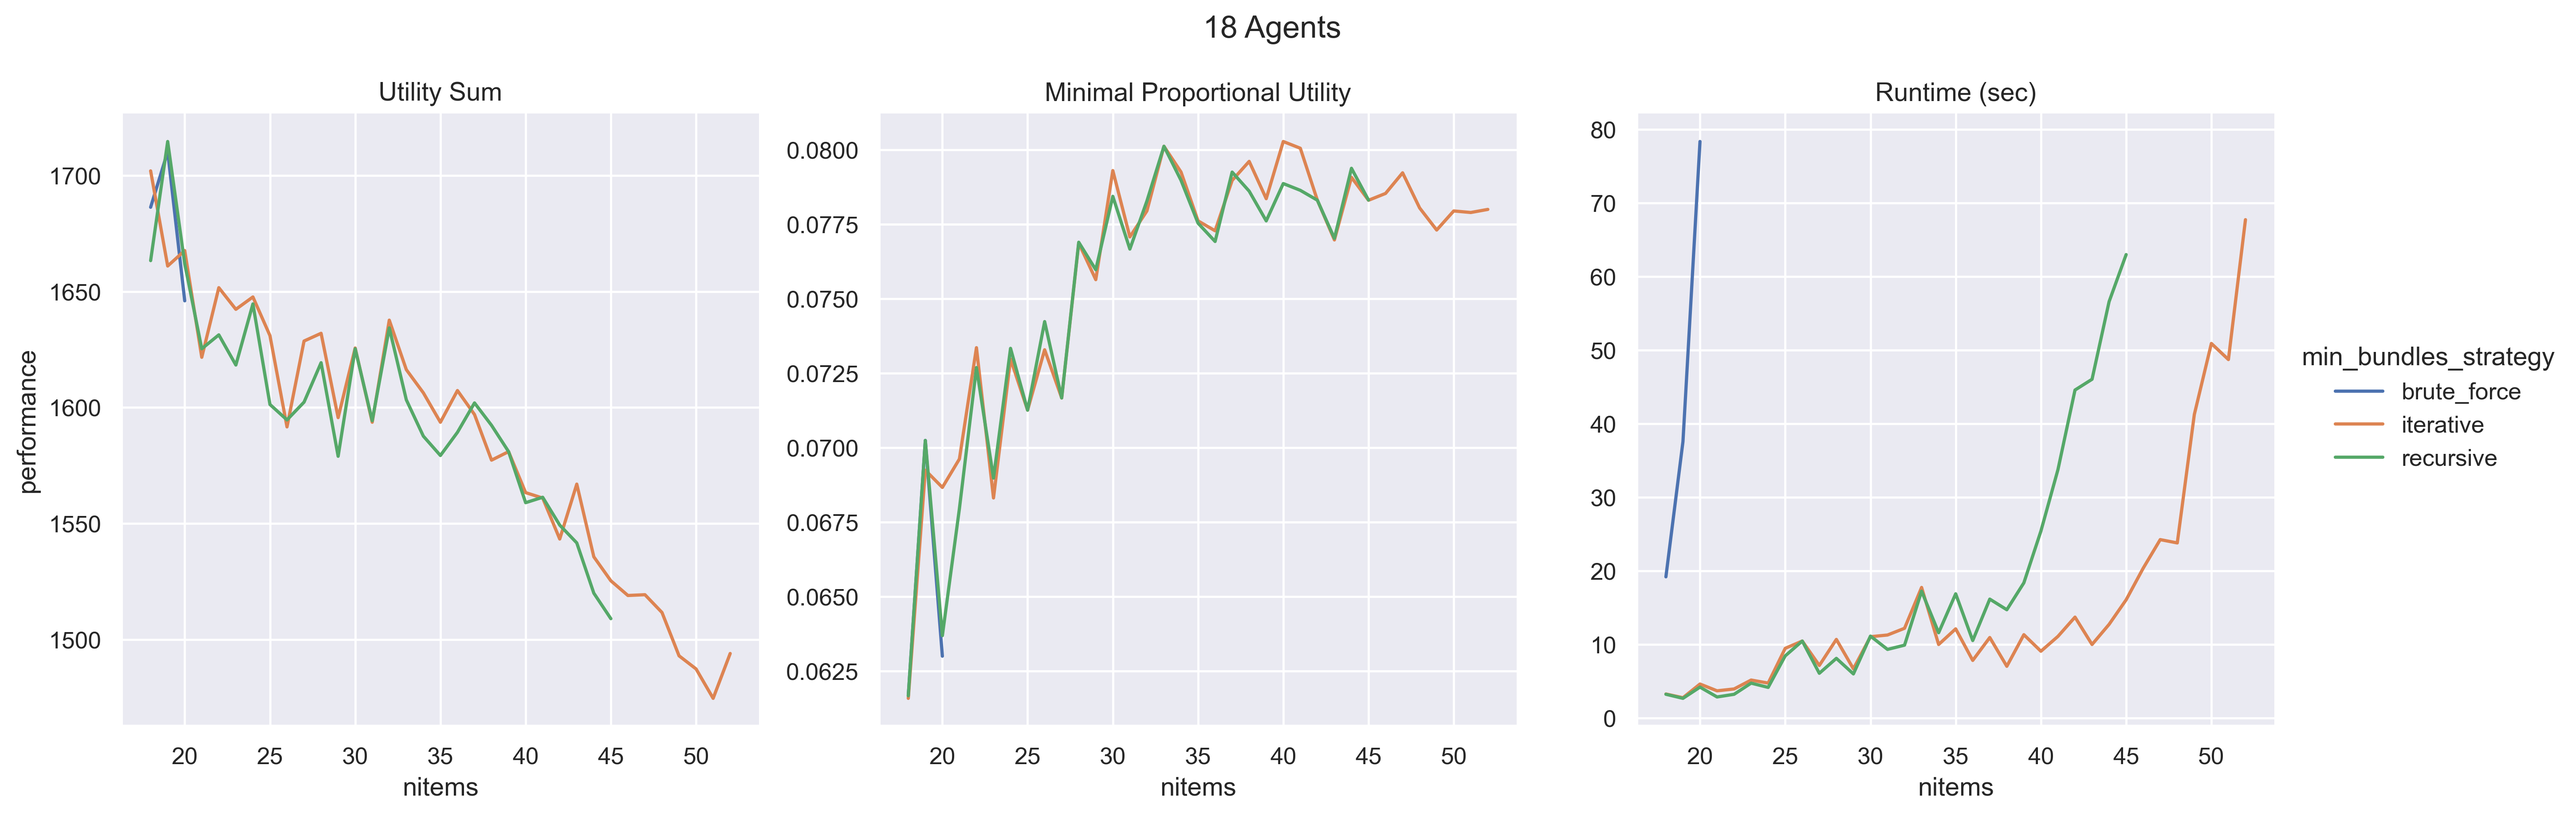
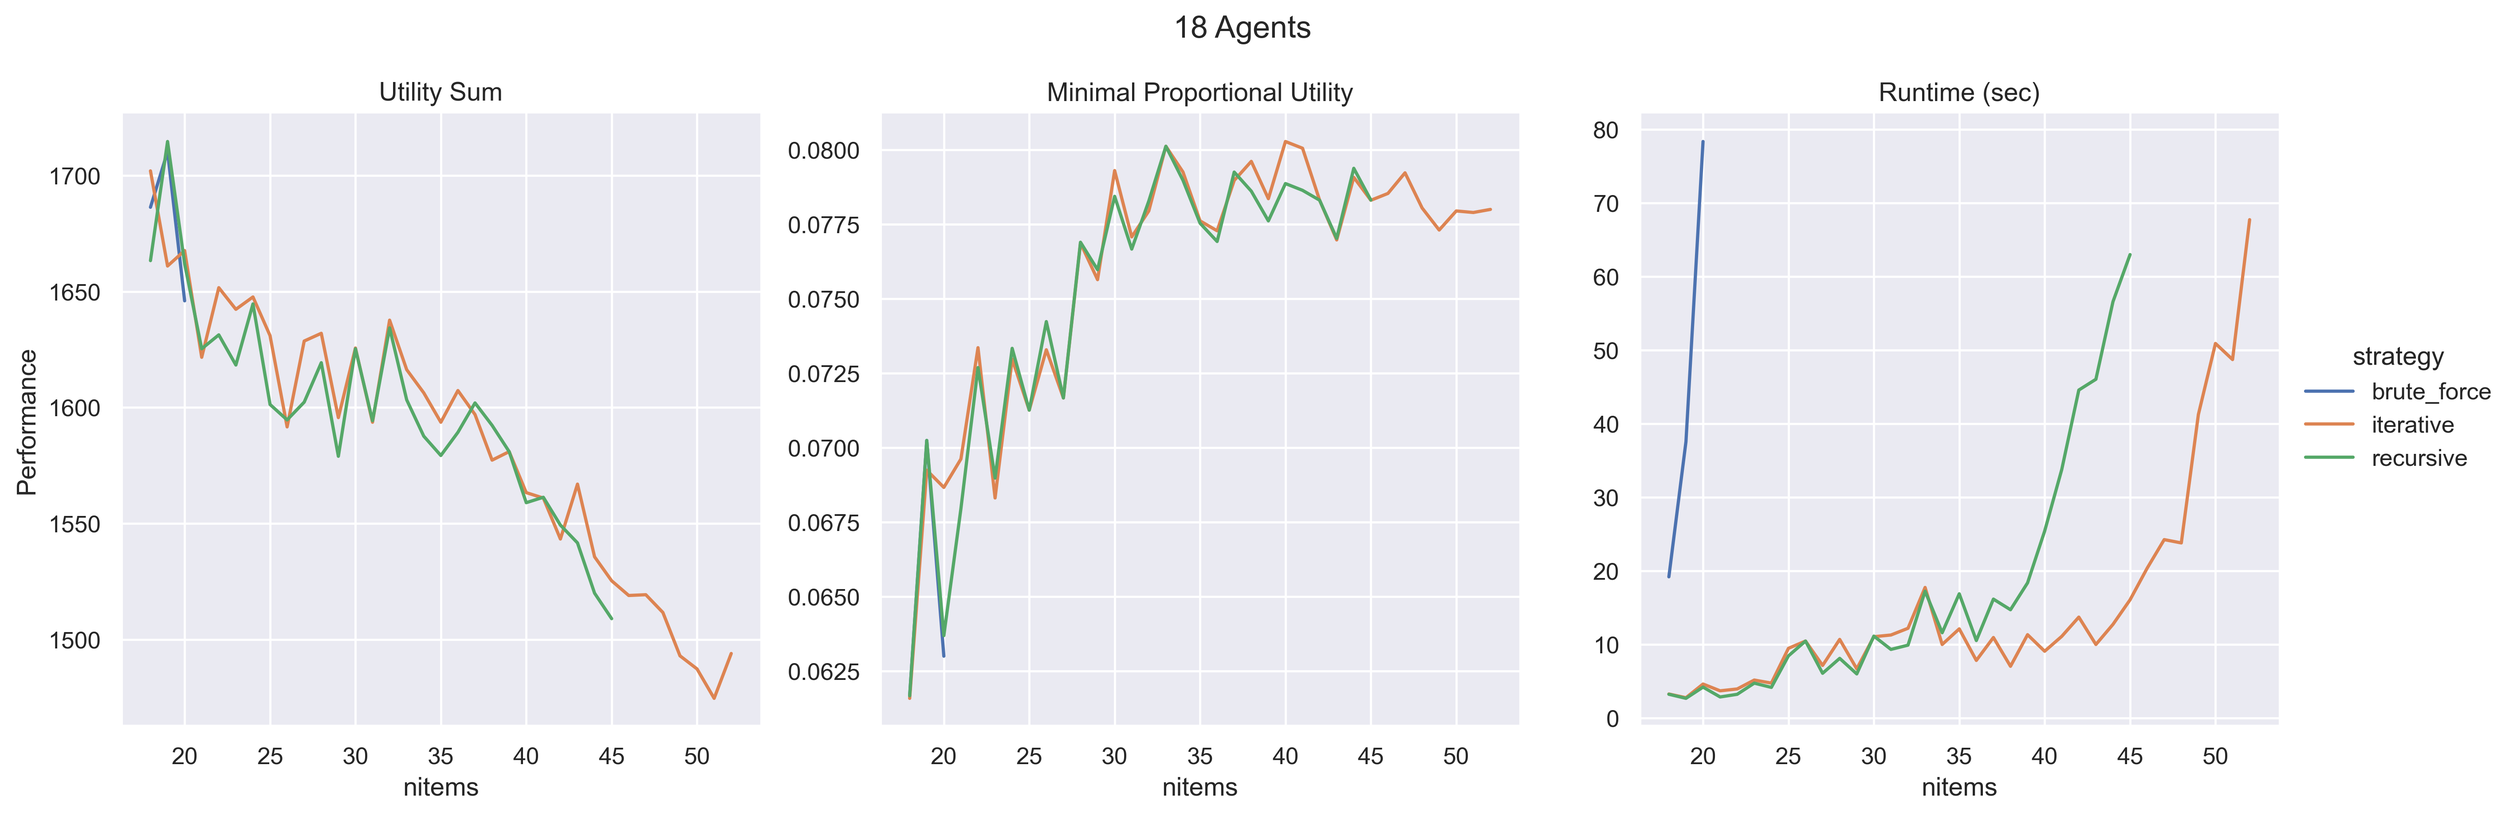
more efficient dataframe operations

diff --git a/experiments/compare_maximallly_proportional.py b/experiments/compare_maximallly_proportional.py
@@ -139,32 +139,32 @@ def improve_algo_plots():
     for nagents in range(2, 24):
         csv_path = results_path / f"{nagents}_agents.csv"
         df = pd.read_csv(csv_path)
-        df = df.pivot_table(
-            index=["nitems", "min_bundles_strategy"],
-            values=["utility_sum", "min_proportional_utility", "runtime"],
-        ).reset_index()
-        # Convert to long-form
-        df = df.melt(
-            id_vars=["nitems", "min_bundles_strategy"],
-            value_vars=["utility_sum", "min_proportional_utility", "runtime"],
-            var_name="metric",
-            value_name="performance",
+        metrics = ["utility_sum", "min_proportional_utility", "runtime"]
+        df = (
+            df.groupby(["nitems", "min_bundles_strategy"])[metrics]
+            .mean()
+            .stack()
+            .rename_axis(index=["nitems", "strategy", "metric"])
+            .reset_index(name="performance")
         )
         g = sns.relplot(
             data=df,
             kind="line",
             x="nitems",
             y="performance",
-            hue="min_bundles_strategy",
+            hue="strategy",
             col="metric",
-            facet_kws=dict(sharey=False)
+            facet_kws=dict(sharey=False),
         )
-        for ax, title in zip(g.axes.flat, ["Utility Sum", "Minimal Proportional Utility", "Runtime (sec)"]):
+        for ax, title in zip(
+            g.axes.flat,
+            ["Utility Sum", "Minimal Proportional Utility", "Runtime (sec)"],
+        ):
             ax.set_title(title)
         g.figure.suptitle(f"{nagents} Agents", y=1.05)
+        g.set_ylabels("Performance")
         g.savefig(plots_path / f"{nagents}_agents.png", dpi=350)
         plt.close()
-        
 
 
 def parallel_algo_plots():
